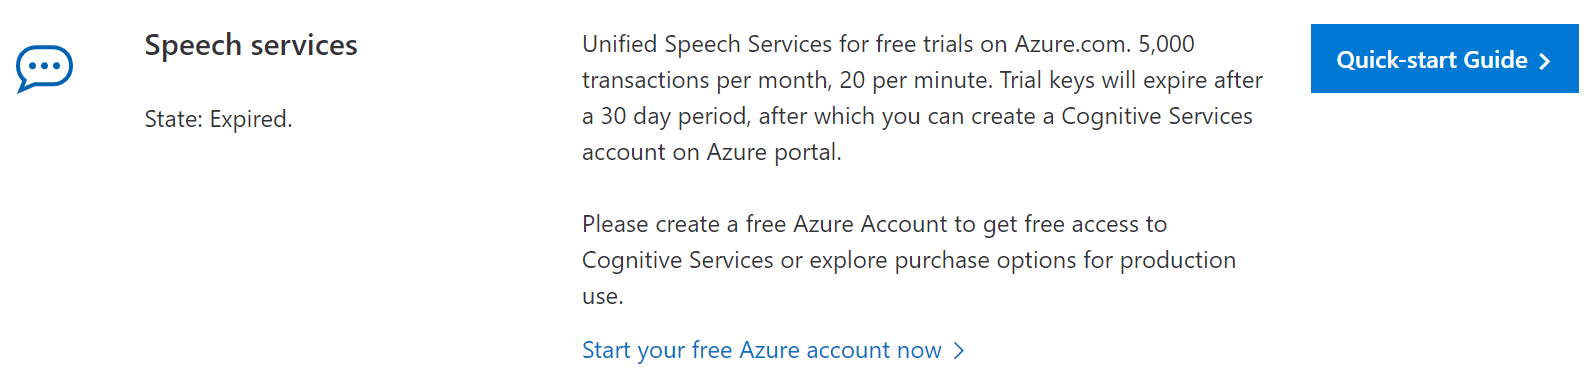
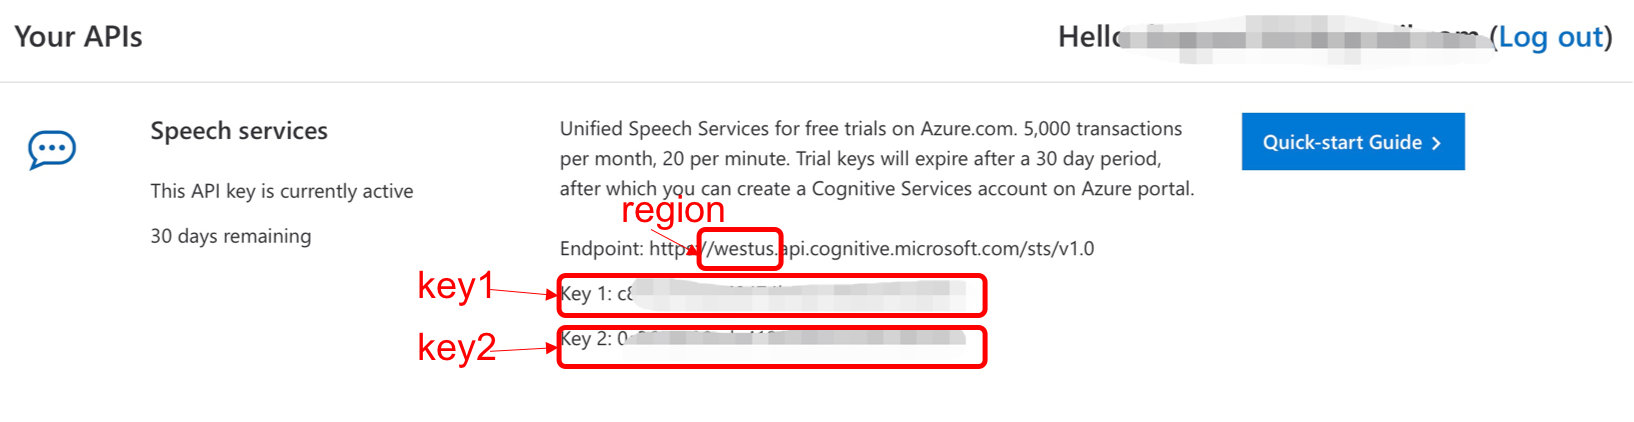
Replace azure image and update user guide

diff --git a/_docs/e-learning-lab.md b/_docs/e-learning-lab.md
@@ -23,7 +23,7 @@ Adding such explanations to slides is particularly useful when creating e-Learni
 
 * Here is an example self-study slide deck that has such explanations.
 
-* Here is an e-Learning video created from such slides.
+<iframe src="{{ site.baseurl }}/img/docs/e-learning-lab/eLL.gif" width="600" height="350"></iframe>
 
 ## <a class="anchor-bookmark" id="adding-explanations"></a> Adding explanations
 
@@ -82,11 +82,11 @@ Now, try playing the slide in presentation mode and observe how the explanation 
 
 You can similarly add explanations to the remaining bullet points, or attach an explanation to any animation step in any slide.
 
-Notes:
+> **Note:**
 
-* You can add multiple explanations to a slide without ‘syncing’ after each addition. But you should ‘sync’ before moving onto a different slide.
+> You can add multiple explanations to a slide without syncing after each addition. But you should `sync` before moving onto a different slide.
 
-* To change the words of a caption/callout/audio, simply edit the corresponding text in the eLL panel and ‘sync’. If you edit the text in the callout/caption shapes, those changes will be lost when you sync the next time.
+> To change the words of a caption/callout/audio, simply edit the corresponding text in the eLL task pane and `sync`. If you edit the text in the callout/caption shapes, those changes will be lost when you sync the next time.
 
 ## <a class="anchor-bookmark" id="other-features"></a> Other Features
 
@@ -106,9 +106,9 @@ Not only that, if you customize an existing callout/caption format on a slide, t
 
 By default, eLL uses text-to-speech voices that comes with your Windows. However, it is possible to use the following additional voice options in eLL.
 
-* Microsoft Azure Speech services -- refer to the [`Adding Microsoft Azure Speech Services` section] for instructions. 
+* Microsoft Azure Speech services -- refer to the <a href="#create-azure-account">Adding Microsoft Azure Speech Services</a> for instructions. 
 
-* IBM Watson Speech Services -- refer to this [`Adding IBM Watson Voice Options` section] for instructions. 
+* IBM Watson Speech Services -- refer to the <a href="#create-ibm-account">Adding IBM Watson Speech Services</a> for instructions. 
 
 ## <a class="anchor-bookmark" id="eLL-ui"></a> User Interface 
 
@@ -198,7 +198,7 @@ Use this section to set the default voice for voice generation.
 
 **Voice Preferences:**
 
-You can also select and rank up to 5 *preferred *voices (reason: preferred voices are easier to preview when trying to select a voice for an explanation). To set preferred voices, click on the `Edit` button in `Voice Preferences` section and rank up to 5 voices as indicated in the diagram above. 
+You can also select and rank up to 5 preferred voices (reason: preferred voices are easier to preview when trying to select a voice for an explanation). To set preferred voices, click on the `Edit` button in `Voice Preferences` section and rank up to 5 voices as indicated in the diagram above. 
 
 **Other Settings:**
 
@@ -210,7 +210,7 @@ To hear the audio after generating/syncing an audio explanation, tick the `Previ
 
 To create an Azure text-to-speech (TTS for short) service instance, there are two options available. The first option creates a free Azure trial for 3 months. While this is the simpler, you will have to create a proper Azure account (i.e., option 2) after the trial expires. 
 
-###<a class="anchor-bookmark" id="option-1"></a> Option 1: Azure Free Trial for 3 months
+###<a class="anchor-bookmark" id="azure-option-1"></a> Option 1: Azure Free Trial for 3 months
 
 Go to [link](https://azure.microsoft.com/en-us/services/cognitive-services/speech-services/) and click on the green `Try Speech Services` button.
 
@@ -242,9 +242,9 @@ You will be presented with the following screen.
   <img src="{{ site.baseurl }}/img/docs/e-learning-lab/image_21.png" width="800">
 </p>
 
-Copy the API key. Use this API key to login to Azure account and select the correct region during login. 
+Copy key 1 or key 2. Use this API key to login to Azure account and select the correct region during login. 
 
-### <a class="anchor-bookmark" id="option-2"></a> Option 2: Register for an Azure Account
+### <a class="anchor-bookmark" id="azure-option-2"></a> Option 2: Register for an Azure Account
 
 Go to this [link](https://azure.microsoft.com/en-us/free/) and select the green button `Start Free`. 
 
@@ -311,15 +311,16 @@ You will be directed to a login page as shown below.
 
 Enter your API key copied from step 1 and select the correct endpoint. Click `Confirm` to login. 
 
-##<a class="anchor-bookmark" id="create-ibm-account"></a> Adding IBM Watson Voice Options
+##<a class="anchor-bookmark" id="create-ibm-account"></a> Adding IBM Watson Speech Services
 
 ### Step 1. Create a Watson Speech Service Instance
 
-We will guide you towards creating a Watson text-to-speech instance under `free` plan. Note that only 10,000 characters can be generated per month under the free plan. To upgrade, please refer to [link to `Note` section].
+We will guide you towards creating a Watson text-to-speech instance under `free` plan. 
 
-The following procedures are adapted from Watson cloud documentation at [link](https://console.bluemix.net/docs/services/text-to-speech/getting-started.html#gettingStarted).
+The following procedures are adapted from [Watson cloud documentation](https://console.bluemix.net/docs/services/text-to-speech/getting-started.html#gettingStarted).
 
-Go to [link](https://console.bluemix.net/catalog/services/text-to-speech) 
+### <a class="anchor-bookmark" id="ibm-option-1"></a> Option 1: Create Instance under Free Plan
+To start off, go to the link [here](https://console.bluemix.net/catalog/services/text-to-speech) 
 
   <img src="{{ site.baseurl }}/img/docs/e-learning-lab/image_35.png" width="600">
 
@@ -357,13 +358,16 @@ Click on the `View credentials` button to reveal your instance credentials. Your
 
 Copy the apiKey value. Key in this value when you login to Watson voice. The region refers to the location where you choose your instance to be deployed in.
 
-Note:
+> **Note:**
+> Only 10,000 characters are allowed under `free` plan, to upgrade to standard plan with unlimited characters, we suggest you to continue reading <a href="#ibm-option-2">option 2</a>.
+
+### <a class="anchor-bookmark" id="ibm-option-2"></a> Option 2: Create Instance under Standard Plan
 
 If you create your TTS instance under free tier, then you are only allowed to generate 10,000 characters per month. The instance will be automatically deleted after 30 days of inactivity. To upgrade to standard tier, go to your dashboard and click on your instances. Choose `Plan` from the menu bar and select `Standard` tier. Click `Save` to save your changes. 
 
-  <img src="{{ site.baseurl }}/img/docs/e-learning-lab/image_43.png" width="600">
+<img src="{{ site.baseurl }}/img/docs/e-learning-lab/image_43.png" width="600">
 
-You may need to re-stage or re-start your instance after that. For details, please refer to [link](https://console-tok02-black.cdn.s-bluemix.net/docs/account/change-plan.html#changing) .
+You may need to re-stage or re-start your instance after that. For details, please refer to [here](https://console-tok02-black.cdn.s-bluemix.net/docs/account/change-plan.html#changing) .
 
 ### Step 2: Add Watson voices to e-Learning Lab
 
